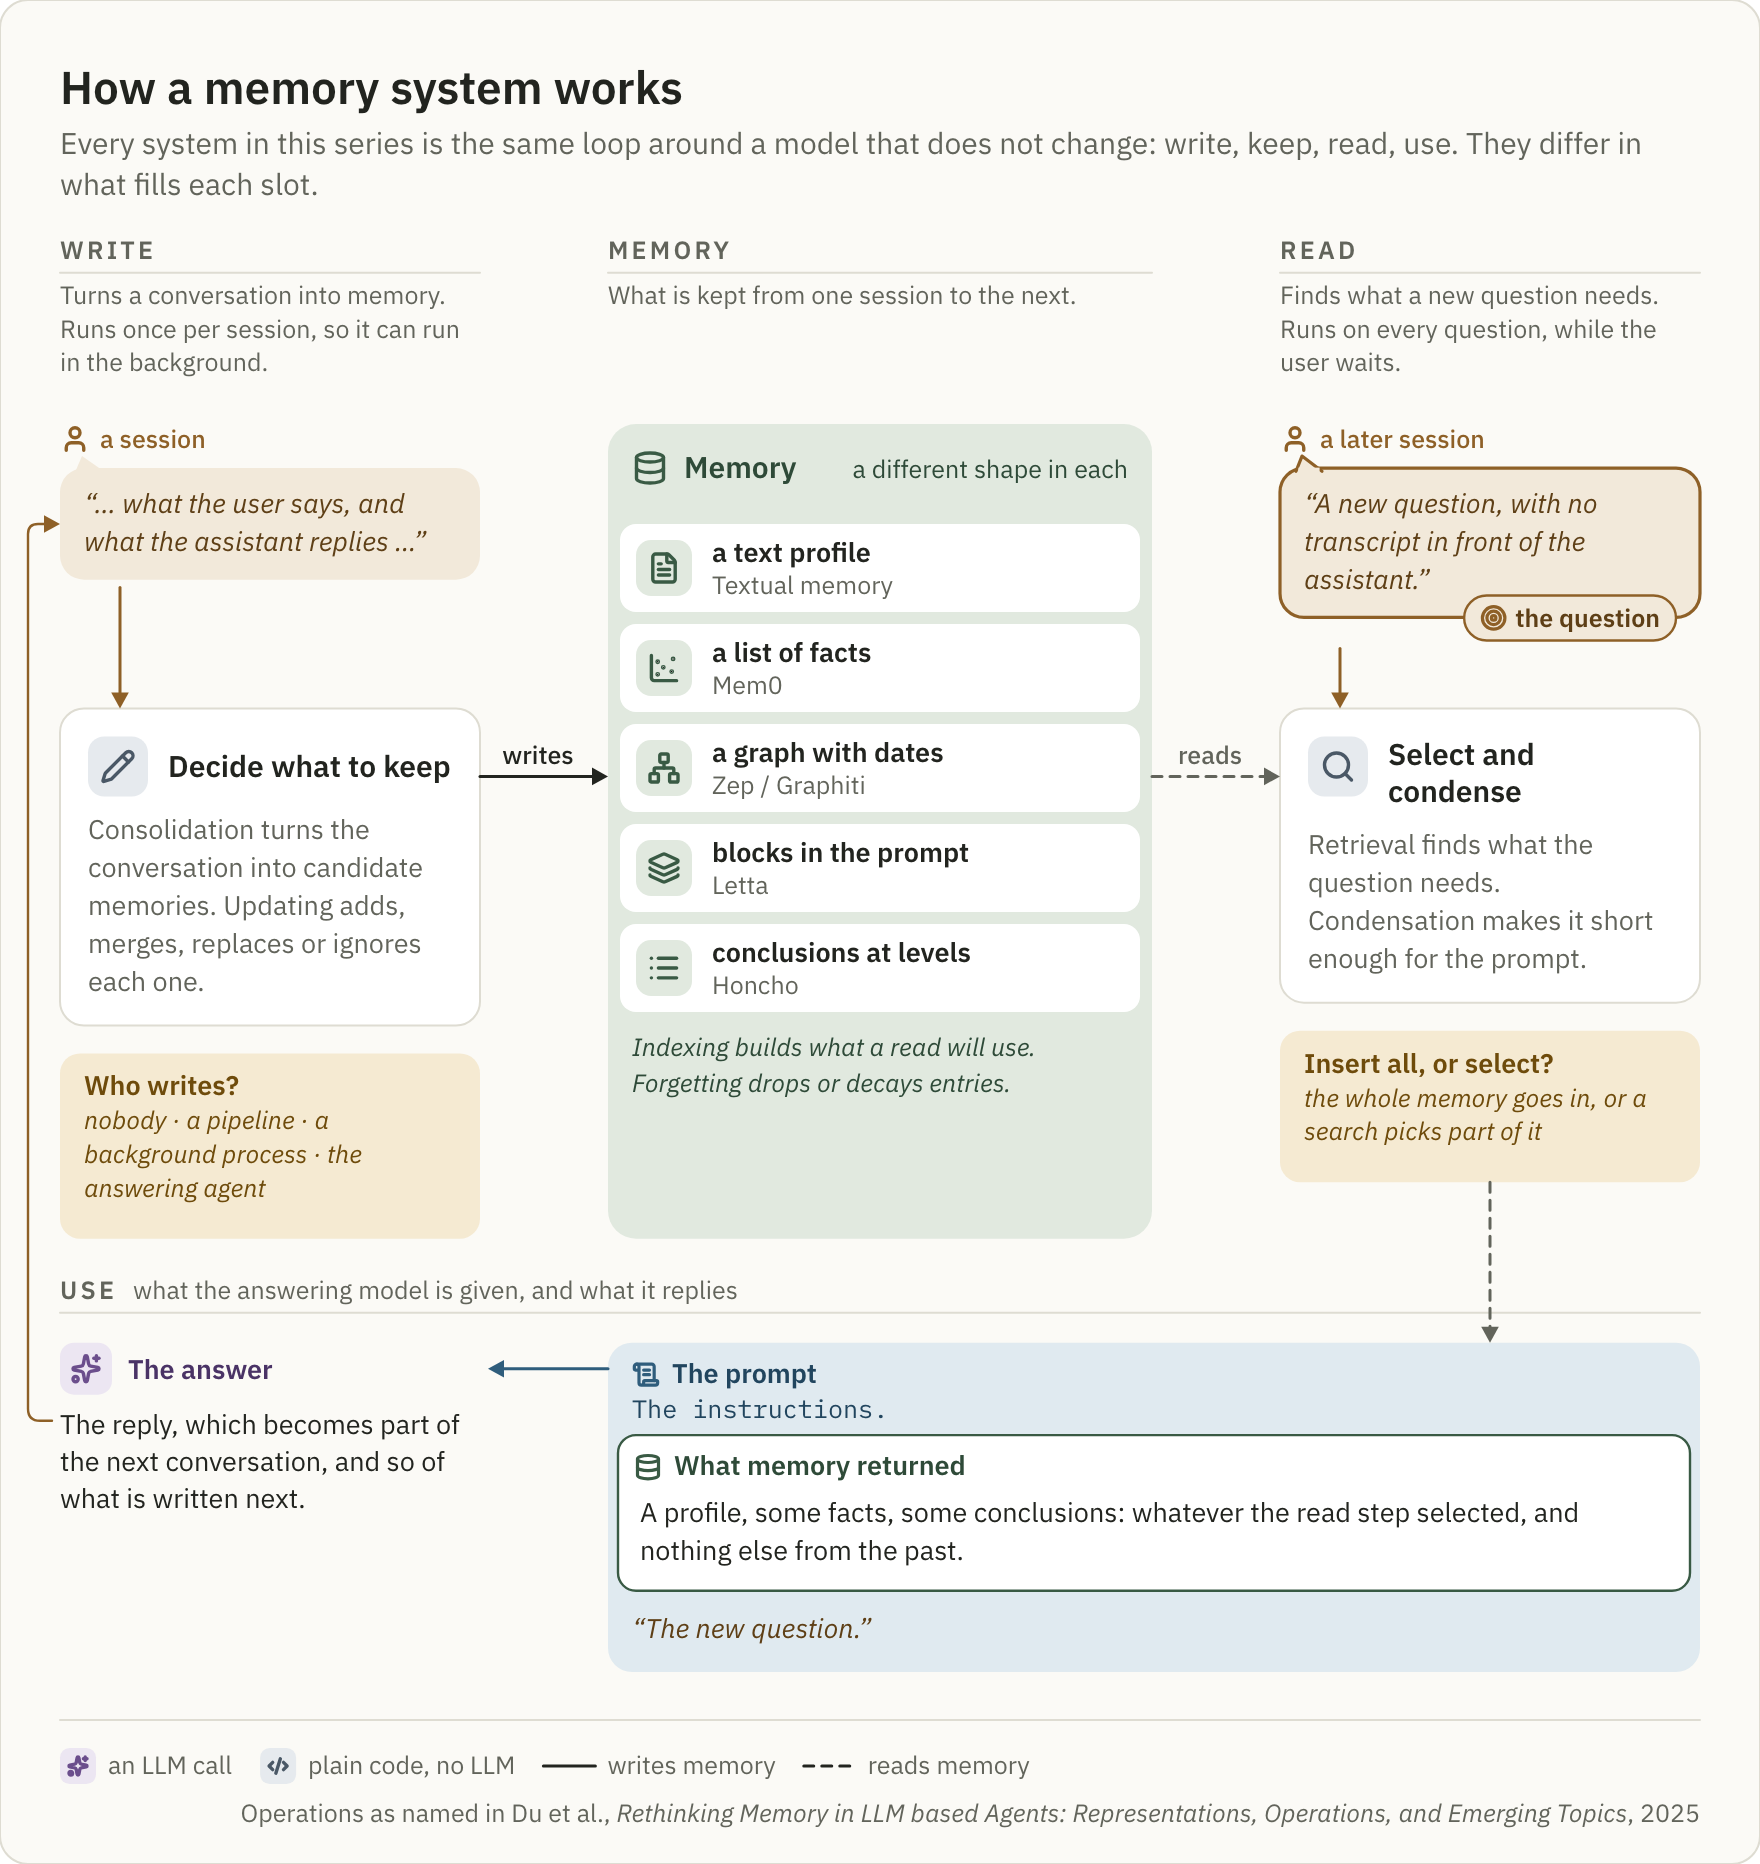
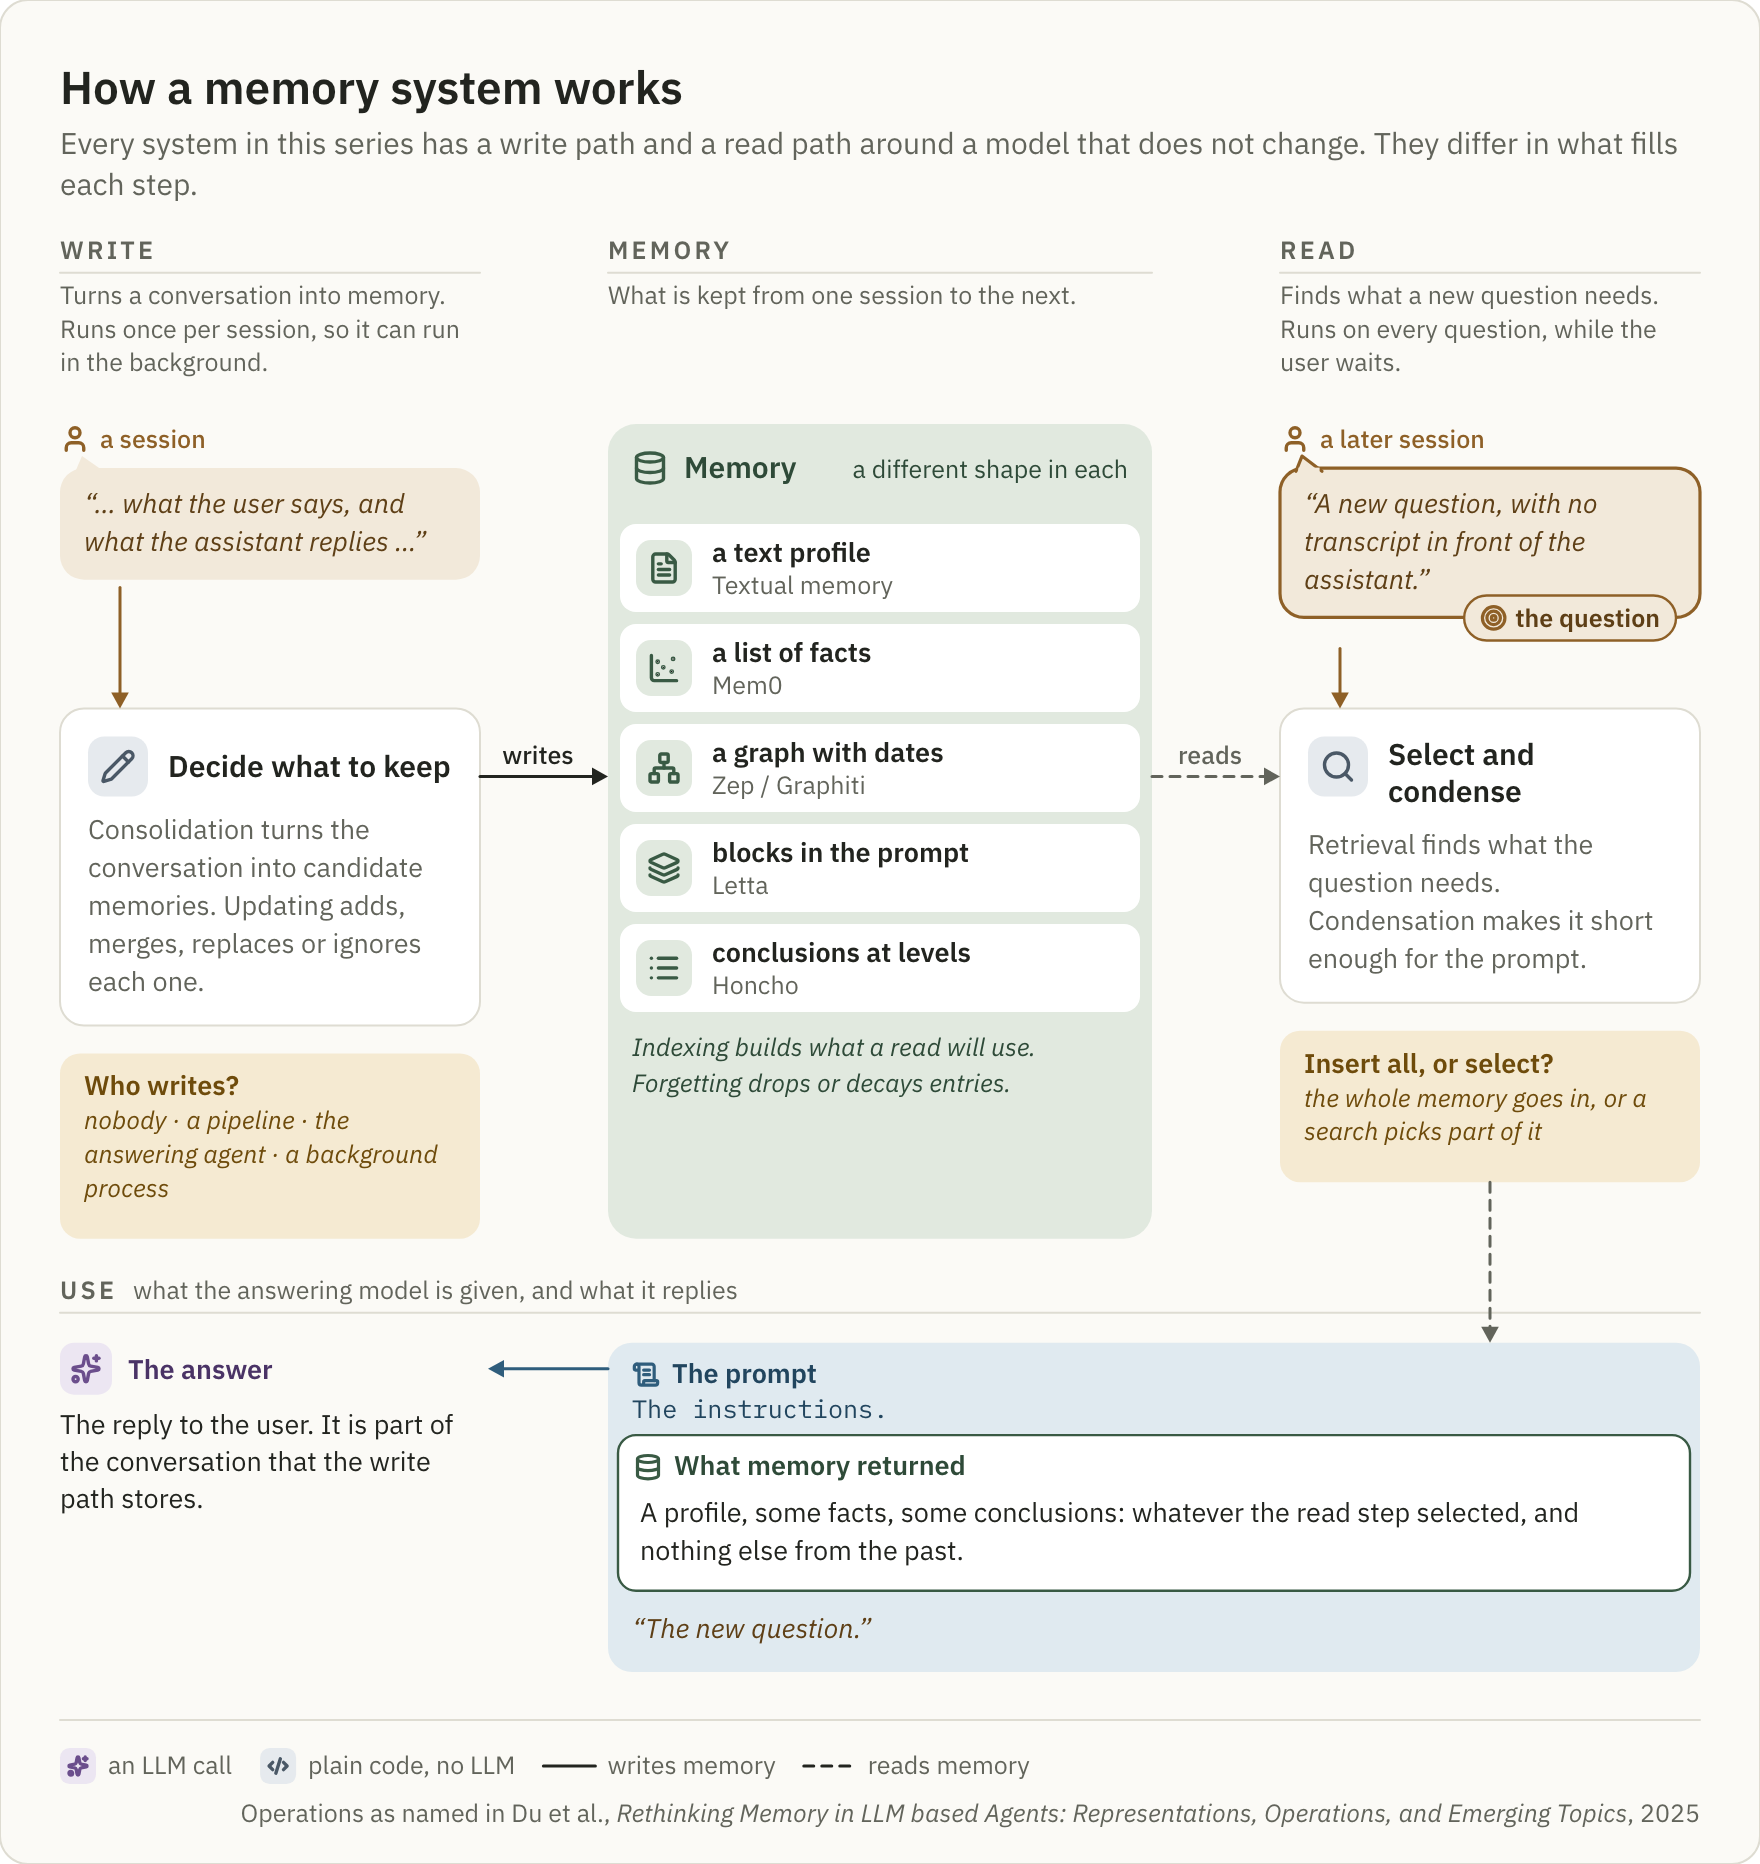
Replace the "one loop" framing with "two paths" across the series
- The series brief's idea 1, part 1's brief and part 9's closing summary now describe a write path and a read path around a model that does not change, matching part 2 (memory runs per conversation, it is not a loop).
- The series brief's definition of memory no longer says "outside the model's weights", since part 2 covers memory in the weights before narrowing to text.
- Redrawn overview figure: new subtitle, and no arrow from the answer back to the conversation.

diff --git a/_drafts/agent-memory/series.brief.md b/_drafts/agent-memory/series.brief.md
@@ -24,7 +24,7 @@ The series name is decided (Anton, 2026-11-01). The earlier drafts in `v1/` are 
 
 ## The ideas of the series
 
-1. **One loop.** Every memory system is the same loop around a model that forgets: write, store, read, use.
+1. **Two paths.** Every memory system has a write path, which turns a conversation into memory, and a read path, which puts what a new request needs into the prompt. The model that answers does not change.
 2. **Two choices.** Most of what a system does well, does badly and costs follows from two choices: who writes the memory, and whether the read path puts all of it into the prompt or a search picks part of it.
 3. **Storing is not delivering.** Storing a fact and getting it to the answering model are separate problems, and most facts are lost at write time.
 4. **Feeding matters.** How a system is fed decides whether it remembers at all, and nothing fails loudly when it is fed wrong.
@@ -36,7 +36,7 @@ The series name is decided (Anton, 2026-11-01). The earlier drafts in `v1/` are 
 | # | Working title | Type | Its job | Ideas |
 |---|---|---|---|---|
 | 1 | Why look inside agent memory | series introduction | Why this is worth understanding; the shape of the answer; a reading guide | 1, 2, 6 (5 in general terms) |
-| 2 | How agent memory works | map | The loop, its operations, where memory can live, the two choices, the baselines, where the designs came from. The most visual part. | 1, 2, 3 |
+| 2 | How agent memory works | map | The write and read paths, their operations, where memory can live, the two choices, the baselines, where the designs came from. The most visual part. | 1, 2, 3 |
 | 3 | Textual memory: one profile, rewritten | system deep-dive | The simplest design: a background rewrite of one profile, inserted whole | 2, 3, 6 |
 | 4 | Mem0: facts in a vector store | system deep-dive | Extraction into short facts, similarity search | 2, 3, 6 |
 | 5 | Zep and Graphiti: facts with dates, in a graph | system deep-dive | A pipeline into a dated graph; closing superseded facts | 2, 3, 4, 6 |
@@ -99,7 +99,7 @@ The series name is decided (Anton, 2026-11-01). The earlier drafts in `v1/` are 
 
 | Term | Definition to reuse |
 |---|---|
-| memory (of an agent) | any mechanism that carries information from one conversation to a later one, outside the model's weights |
+| memory (of an agent) | any mechanism that carries information from one conversation to a later one; part 2 covers all three forms (text, the model's internal state, its weights), and the series is about text |
 | session | one conversation, with a date |
 | write path / read path | what happens when a conversation is turned into memory / when a new request gets what it needs from memory |
 | insert vs select | the whole memory goes into the prompt / a search picks part of it |
@@ -115,14 +115,14 @@ Existing figures are in `agent-memory-eval/docs/figures/` and are copied to `ima
 
 | Figure | Shows | Parts | Status |
 |---|---|---|---|
-| overview | the loop: write, memory, read, use | 1, 2 | exists |
+| overview | the two paths: write, memory, read, and the prompt they feed | 1 | exists |
 | map | the systems on the two choices | 1, 2 | exists |
 | series | the same conversation through five systems | 1 | exists |
 | textual, mem0, graphiti, letta, honcho | each architecture with the example | 3–7 | exist |
 | results | accuracy and cost per arm | 8 (maybe 1) | exists |
 | answering | tokens and cost per answer once memory is built | 8 | exists |
 | conversation | the three sessions on a timeline, and the six needs | 1, 3–7 | new |
-| operations | the six operations placed on the loop | 2 | new |
+| operations | the six operations placed on the write and read paths | 2 | exists (2026-11-16) |
 | three-homes | text vs cache vs weights | 2 | new |
 | writers | when each kind of writer runs, relative to the user's turn | 2 | new |
 | insert-vs-select | the two read paths side by side | 2 | new |

diff --git a/_drafts/agent-memory/2199-01-01-agent-memory-9-assistants.md b/_drafts/agent-memory/2199-01-01-agent-memory-9-assistants.md
@@ -606,7 +606,7 @@ A fourth observation follows from the coding agents. **Claude Code and Gemini CL
 
 This part closes the series *How LLM agents remember*. Its ideas, in short:
 
-1. **One loop.** Every memory system is the same loop around a model that forgets: write, store, read, use.
+1. **Two paths.** Every memory system has a write path, which turns a conversation into memory, and a read path, which puts what a new request needs into the prompt. The model that answers does not change.
 2. **Two choices.** Most of what a system does well, does badly and costs follows from two choices: who writes the memory, and whether the read path puts all of it into the prompt or a search picks part of it. The products in this part fit the same two choices.
 3. **Storing is not delivering.** Storing a fact and getting it to the answering model are separate problems, and most facts are lost when they are written.
 4. **Feeding matters.** How a system is fed decides whether it remembers at all, and nothing fails loudly when it is fed wrong.

diff --git a/_drafts/agent-memory/1-intro.brief.md b/_drafts/agent-memory/1-intro.brief.md
@@ -18,7 +18,7 @@ ChatGPT and Claude now remember things about you between conversations, and doze
 
 ## What the reader should leave with
 
-1. Memory is a loop around a model that forgets: something writes, something is stored, something is read back into the prompt.
+1. A memory system has two paths around a model that does not change: a write path that turns a conversation into memory, and a read path that puts what a new request needs into the prompt.
 2. Two choices explain most of a design: who writes, and whether everything is inserted or a search selects.
 3. Memory systems break in ways that a score hides, and you find out by reading what they stored; this series shows where each one breaks, why, and what fixed it.
 4. On a public benchmark, simple designs held up well and the large differences were in cost (general terms only).

diff --git a/_drafts/agent-memory/2-how-memory-works.brief.md b/_drafts/agent-memory/2-how-memory-works.brief.md
@@ -109,4 +109,4 @@ Experiment numbers stay in part 8.
 
 ## Open questions for Anton
 
-- None blocking. The plan's follow-ups (series brief idea 1 "One loop", part 9's recap, the `overview` subtitle) are listed in `HANDOFF.md`.
+- None blocking. The series brief, part 1's brief, part 9's recap and the `overview` figure were changed to "two paths" on 2026-11-17.
